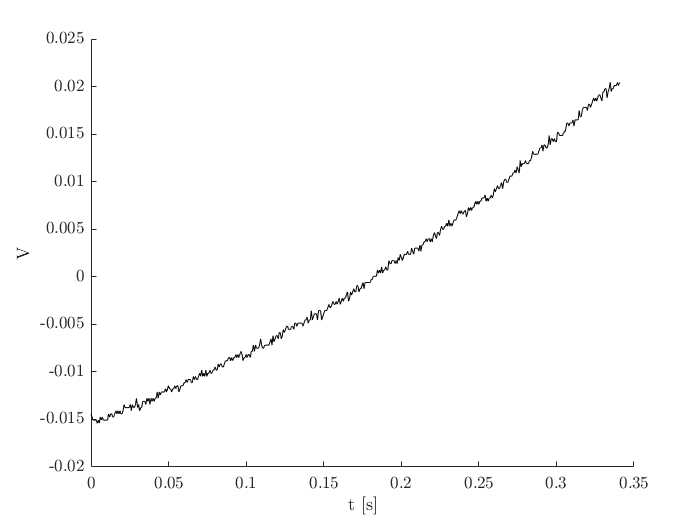
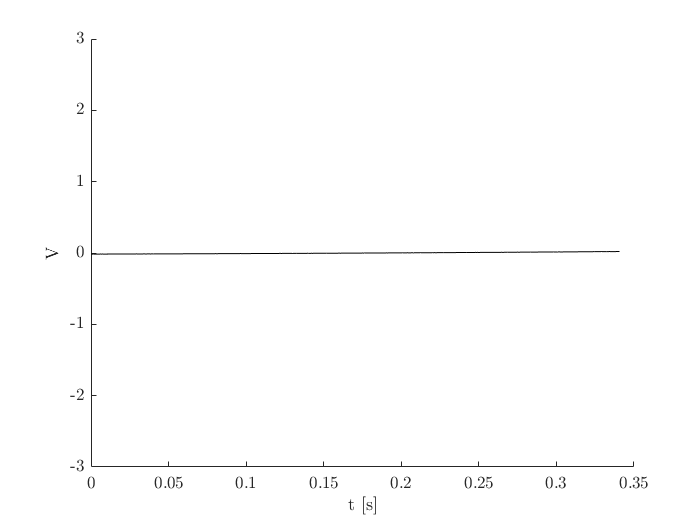
new image

diff --git a/LAB7.m b/LAB7.m
@@ -59,6 +59,7 @@ plot(part2Initial(:,1),part2Initial(:,2),'k')
 xlabel('t [s]');
 xlim([0 .02])
 ylabel('V');
+ylim([-3 3])
 
 % ---------------- Sine Wave time domain final ------------
 figure()
@@ -67,7 +68,7 @@ set(gca,'defaulttextinterpreter','latex','TickLabelInterpreter','latex');
 plot(part2Final(:,1),part2Final(:,2),'k')
 xlabel('t [s]');
 ylabel('V');
-
+ylim([-3 3])
 % ----- Sine wave in time domain with increase Freq -------
 figure()
 hold on; 
@@ -75,6 +76,7 @@ set(gca,'defaulttextinterpreter','latex','TickLabelInterpreter','latex');
 plot(part2Freq(:,1),part2Freq(:,2),'k')
 xlabel('t [s]');
 ylabel('V');
+ylim([-3 3])
 
 %% Figures for part 3
 % -------------- Mystery Signal in time domain ------------
